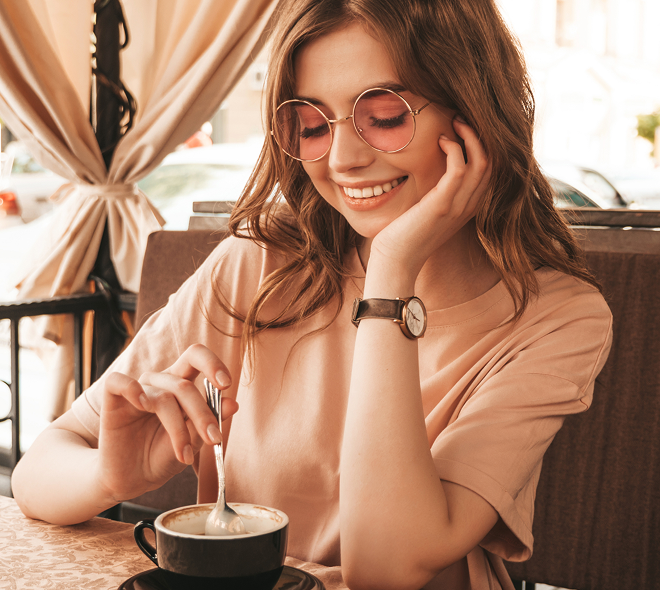
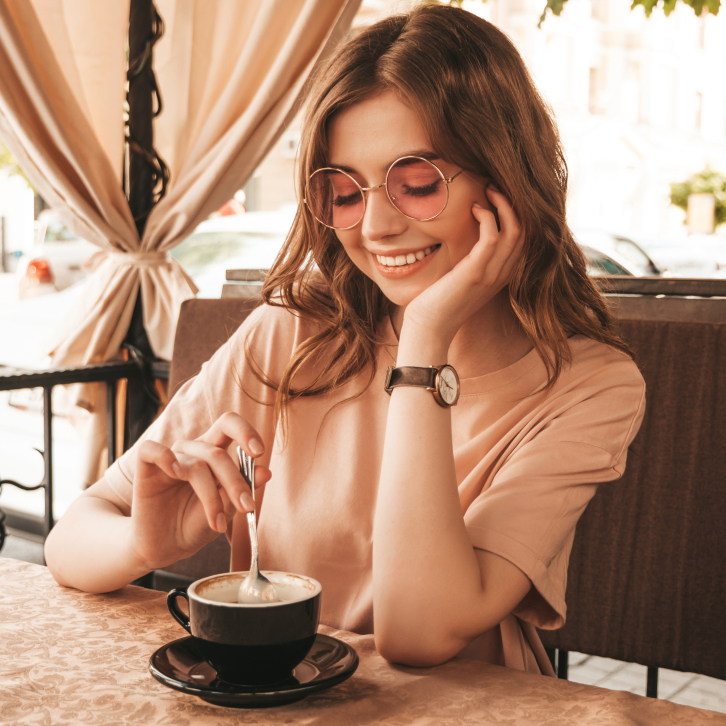
fix: theme switcher position and about gallery photos

diff --git a/landing-page/landing-page/src/scss/blocks/_about.scss b/landing-page/landing-page/src/scss/blocks/_about.scss
@@ -57,7 +57,7 @@
 // Item styles
 .about__gallery-item {
   display: block;
-  transform: scale(100%);
+  transform: scale(110%);
   transition: transform 0.3s ease-in;
   border-radius: 20px;
 }
@@ -140,8 +140,9 @@
 @media screen and (hover: hover) {
   // Styles for scale img
   .about__gallery-item:hover {
-    transform: scale(90%);
-    transition: transform 0.3s ease-in;
+    transform: scale(100%);
+    transition: all 0.3s ease-in;
+    // border-radius: 60px;
   }
 
   // .about__gallery-item:not(:hover) {

diff --git a/landing-page/landing-page/src/scss/blocks/_header.scss b/landing-page/landing-page/src/scss/blocks/_header.scss
@@ -533,3 +533,11 @@
   }
 }
 
+@media screen and (max-width: 715px) {
+  .header .header__controller-container {
+    gap: 6px;
+    padding-left: 0px;
+  }
+}
+
+
